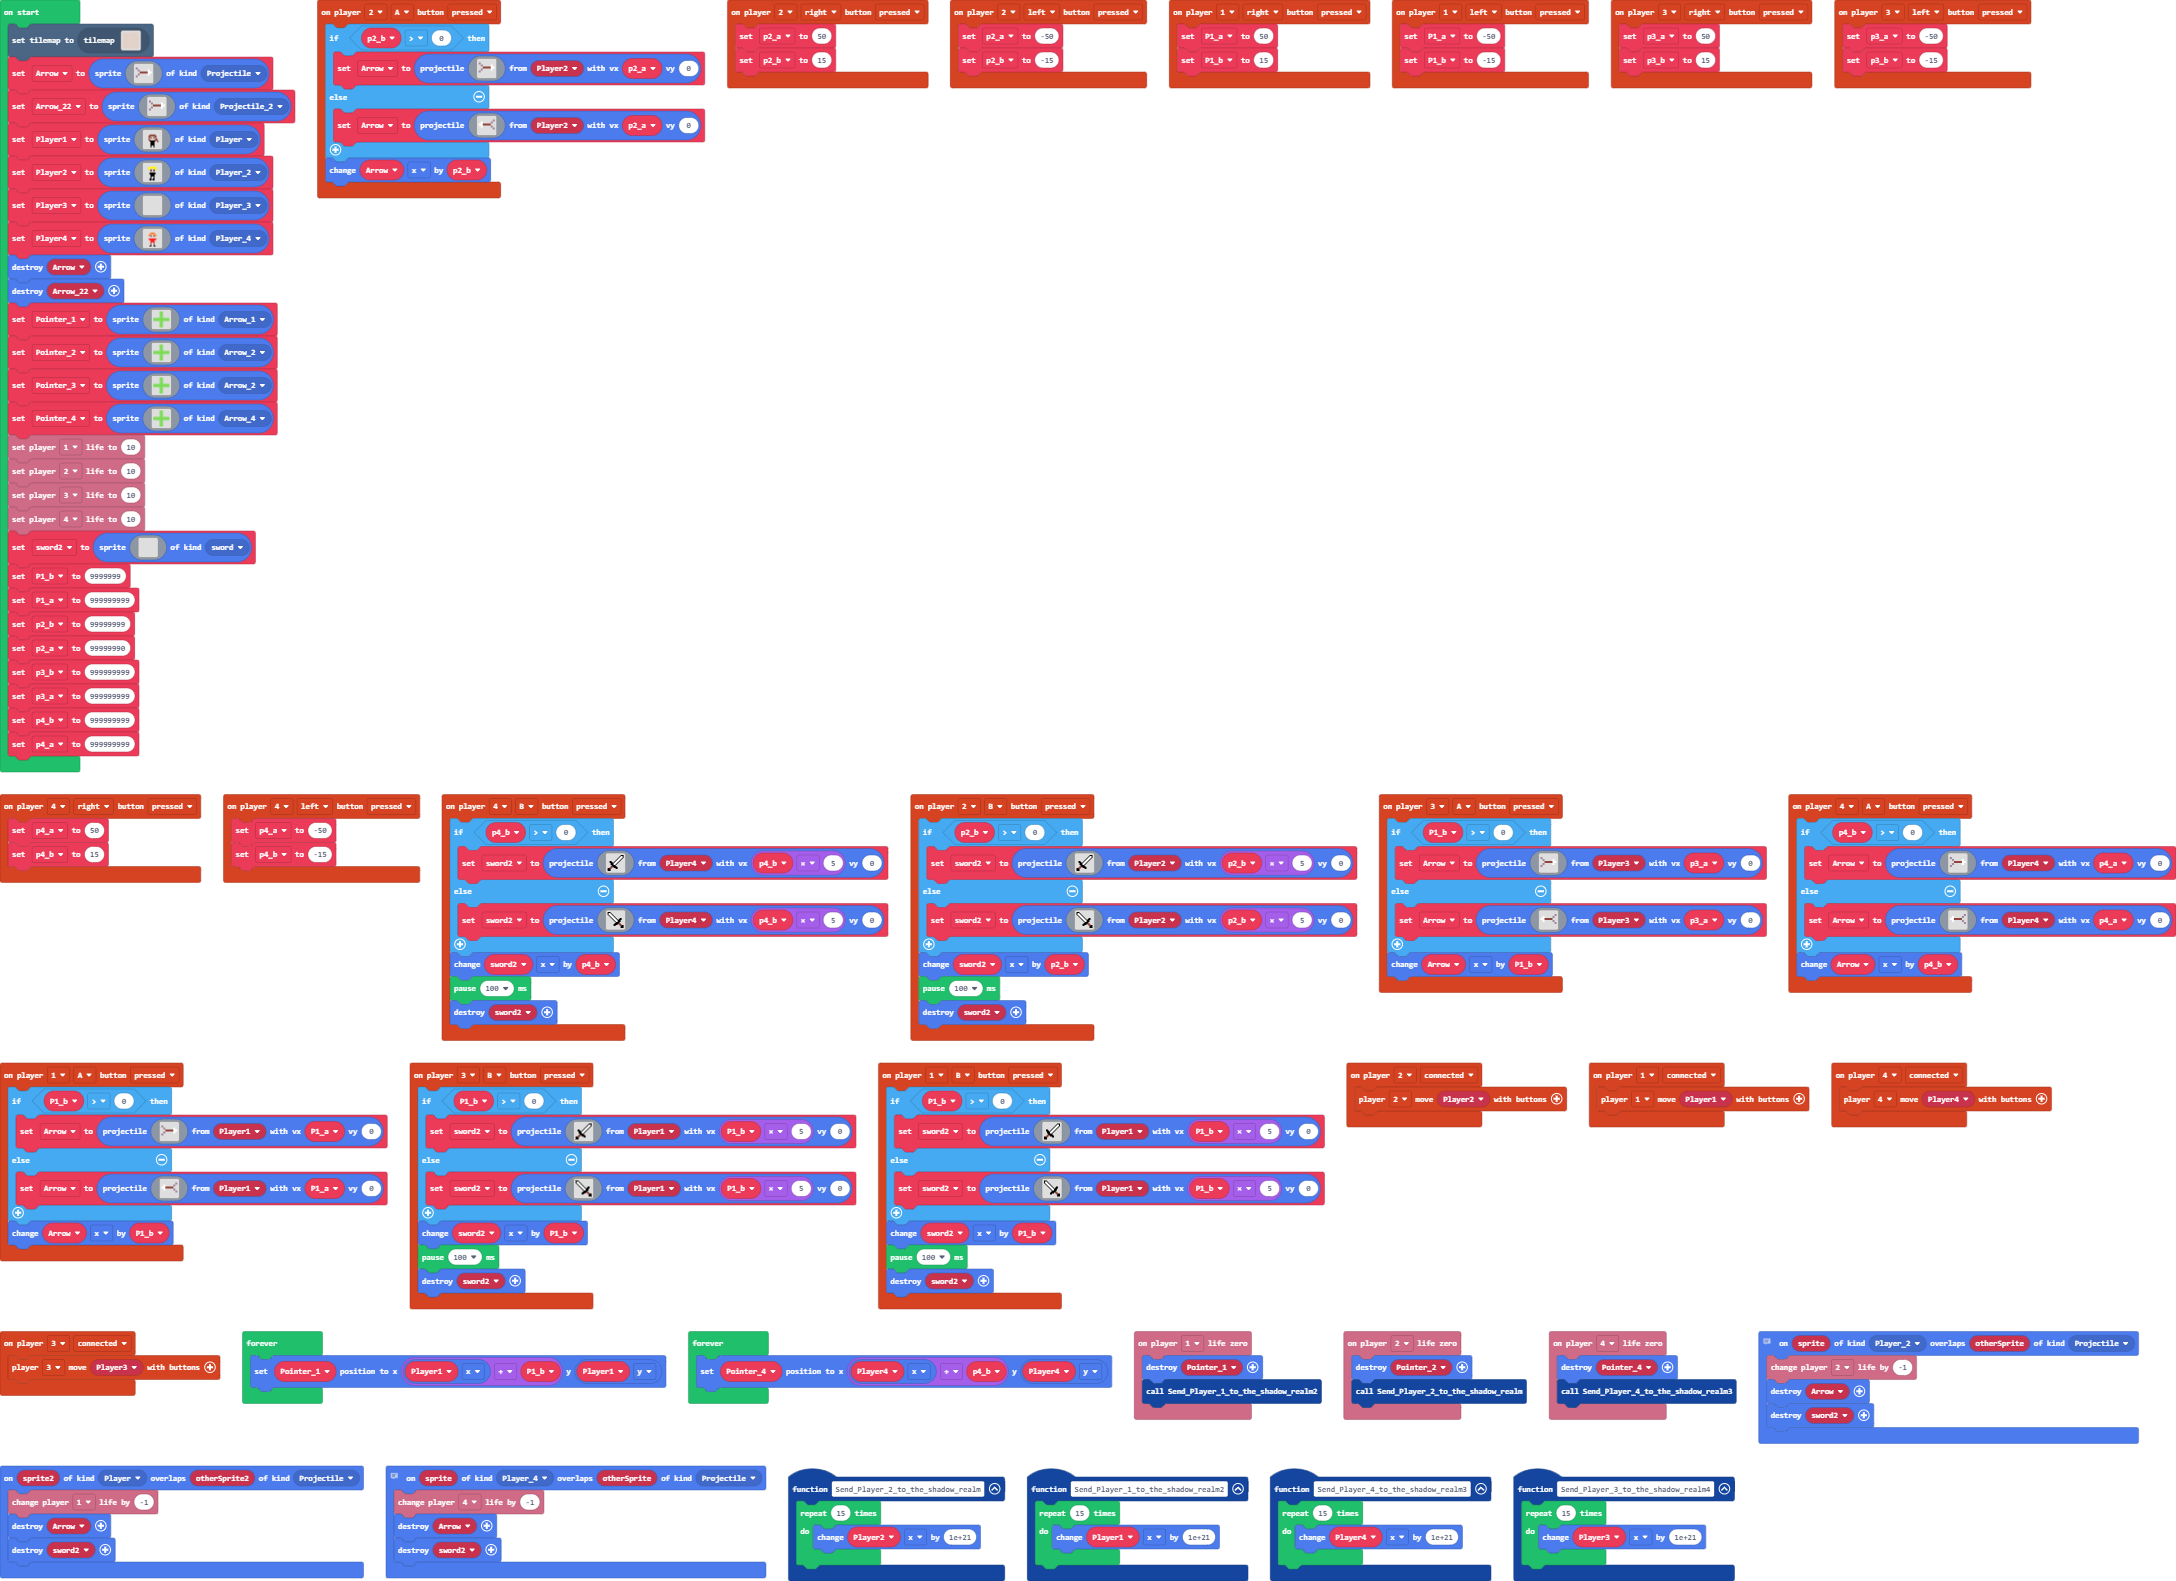
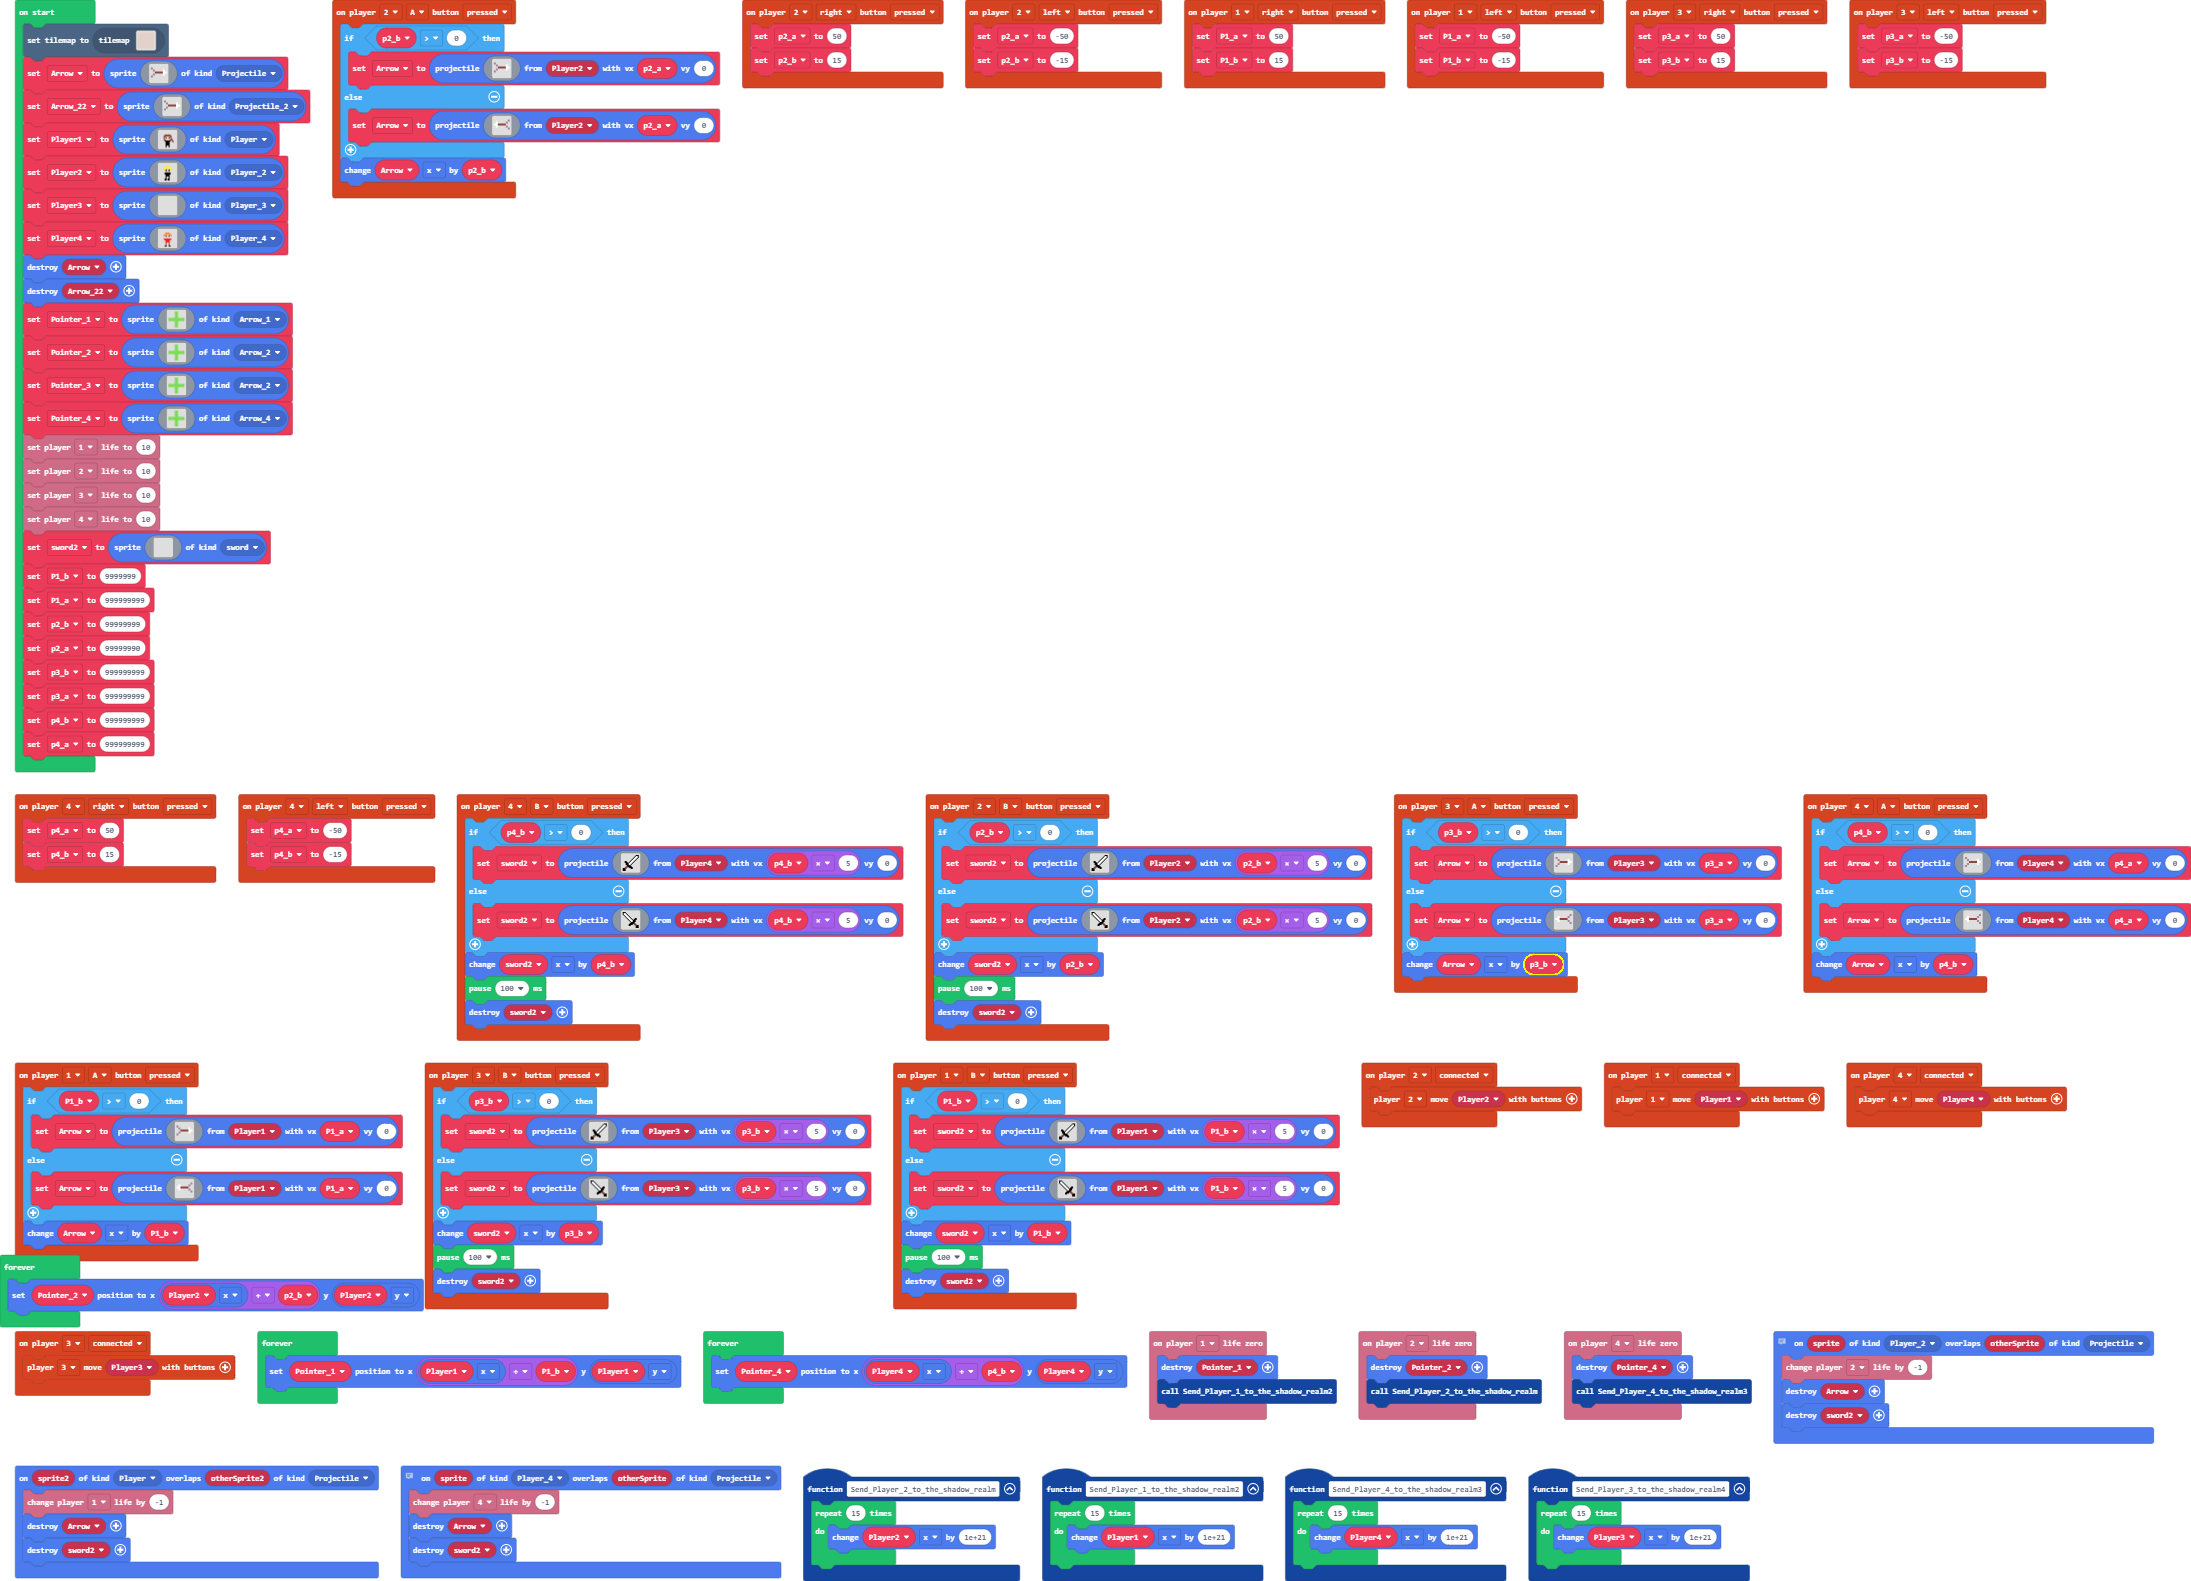
Update main.blocks, main.ts

diff --git a/main.ts b/main.ts
@@ -19,7 +19,7 @@ controller.player4.onEvent(ControllerEvent.Connected, function () {
     controller.player4.moveSprite(Player4)
 })
 controller.player3.onButtonEvent(ControllerButton.B, ControllerButtonEvent.Pressed, function () {
-    if (P1_b > 0) {
+    if (p3_b > 0) {
         sword2 = sprites.createProjectileFromSprite(img`
             . . . . . . . . . . . . . f f f 
             . . . . . . . . . . . . f 1 1 f 
@@ -37,7 +37,7 @@ controller.player3.onButtonEvent(ControllerButton.B, ControllerButtonEvent.Press
             f f e e . . . . f f . . . . . . 
             f f f . . . . . . . . . . . . . 
             f f f . . . . . . . . . . . . . 
-            `, Player1, P1_b * 5, 0)
+            `, Player3, p3_b * 5, 0)
     } else {
         sword2 = sprites.createProjectileFromSprite(img`
             f f f . . . . . . . . . . . . . 
@@ -56,9 +56,9 @@ controller.player3.onButtonEvent(ControllerButton.B, ControllerButtonEvent.Press
             . . . . . . f f . . . . e e f f 
             . . . . . . . . . . . . . f f f 
             . . . . . . . . . . . . . f f f 
-            `, Player1, P1_b * 5, 0)
+            `, Player3, p3_b * 5, 0)
     }
-    sword2.x += P1_b
+    sword2.x += p3_b
     pause(100)
     sprites.destroy(sword2)
 })
@@ -291,7 +291,7 @@ info.player1.onLifeZero(function () {
     Send_Player_1_to_the_shadow_realm2()
 })
 controller.player3.onButtonEvent(ControllerButton.A, ControllerButtonEvent.Pressed, function () {
-    if (P1_b > 0) {
+    if (p3_b > 0) {
         Arrow = sprites.createProjectileFromSprite(img`
             . . . . . . . . 
             b . . . . . . . 
@@ -314,7 +314,7 @@ controller.player3.onButtonEvent(ControllerButton.A, ControllerButtonEvent.Press
             . . . . . . . . 
             `, Player3, p3_a, 0)
     }
-    Arrow.x += P1_b
+    Arrow.x += p3_b
 })
 info.player2.onLifeZero(function () {
     sprites.destroy(Pointer_2)
@@ -552,6 +552,9 @@ p3_b = 999999999
 p3_a = 999999999
 p4_b = 999999999
 p4_a = 999999999
+forever(function () {
+    Pointer_2.setPosition(Player2.x + p2_b, Player2.y)
+})
 forever(function () {
     Pointer_1.setPosition(Player1.x + P1_b, Player1.y)
 })
